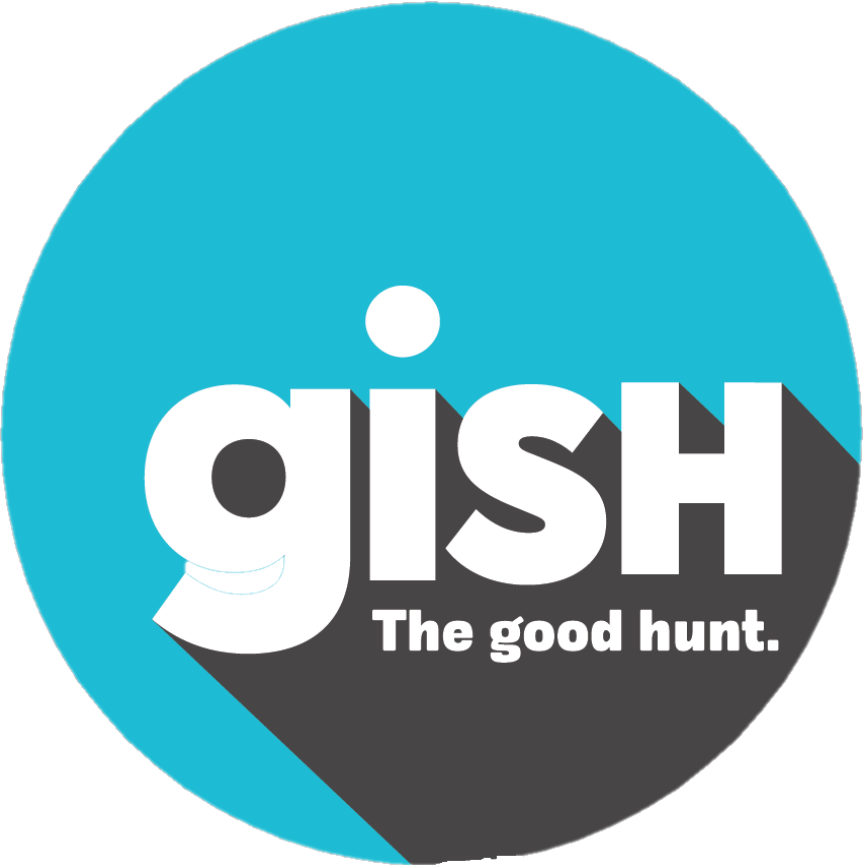
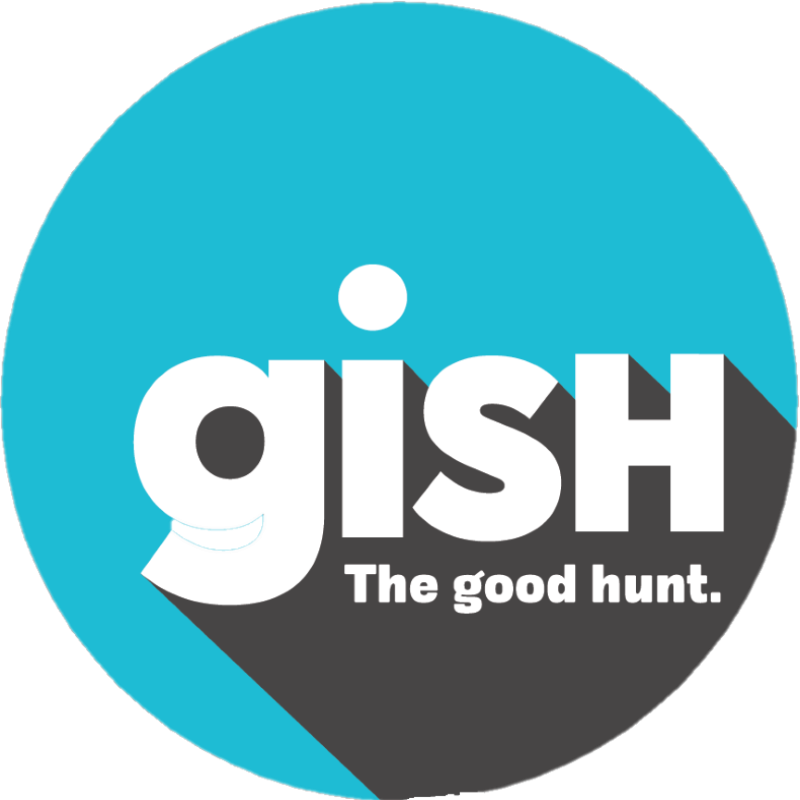
smaller image drawing

diff --git a/index.html b/index.html
@@ -15,7 +15,7 @@ canvas { display: block; margin: 0 auto; background: #fff; }
 
 <body>
 
-<img id="gish_round" width="864" height="865" src="gish_round.png" alt="GISH Round">
+<img id="gish_round" width="100" height="100" src="gish_round.png" alt="GISH Round">
 
 <canvas></canvas>
 <script>
